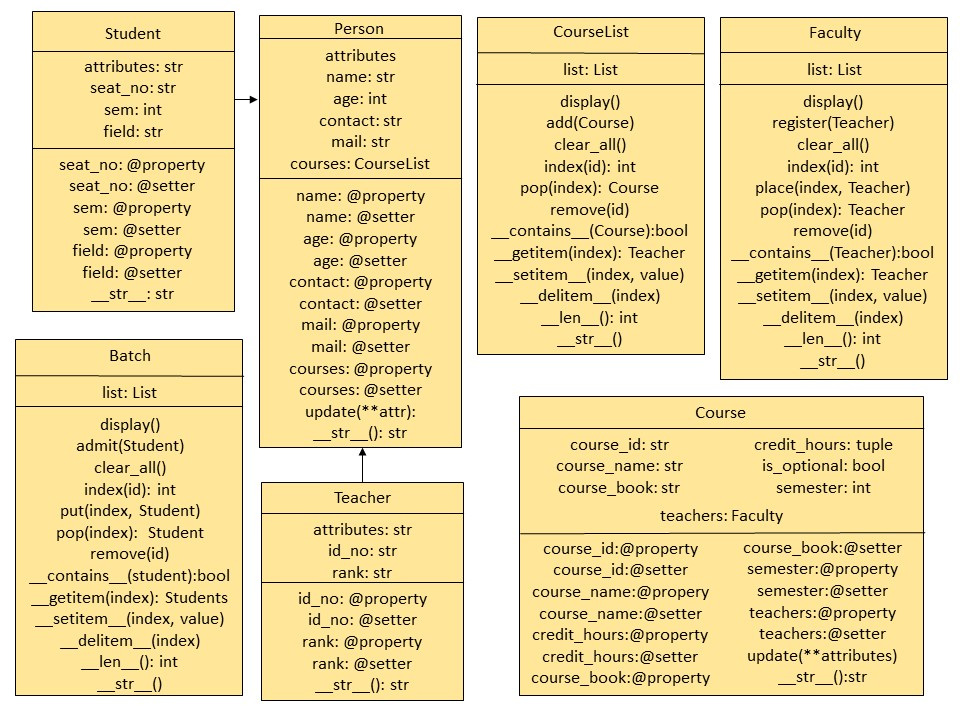
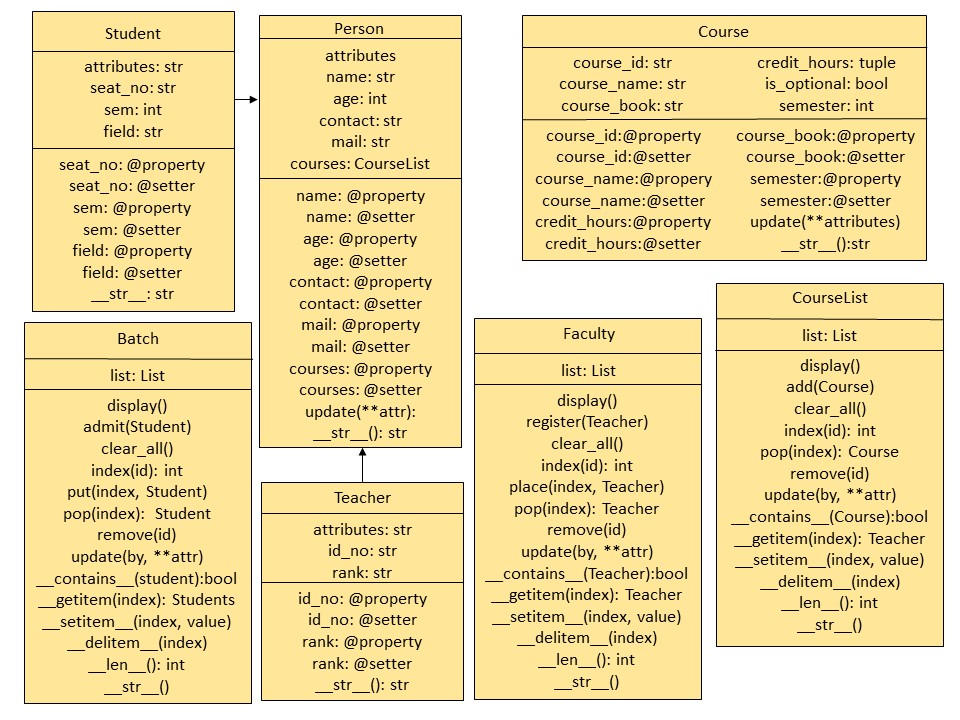
Added update_element() in all List Classes

Changed region(s): [[0.4688, 0.0, 1.0, 0.9778], [0.0, 0.4278, 0.2812, 0.9778]]

diff --git a/Mini-LMS/lms/Course.py b/Mini-LMS/lms/Course.py
@@ -1,15 +1,14 @@
 class Course:
     
-    attributes = "course_id, course_name, course_book, credit_hours, semester, is_optional, teachers"
+    attributes = "course_id, course_name, course_book, credit_hours, semester, is_optional"
     
-    def __init__(self, course_id, course_name, course_book, credit_hours, semester, is_optional, teachers):
+    def __init__(self, course_id, course_name, course_book, credit_hours, semester, is_optional):
         self.course_id = course_id
         self.course_name = course_name
         self.course_book = course_book
         self.credit_hours = credit_hours
         self.semester = semester
         self.is_optional = is_optional
-        self.teachers = teachers
         
     @property
     def course_id(self):
@@ -93,18 +92,6 @@ class Course:
             raise TypeError('Must be an Boolean Value')
         
         self.__is_optional = value
-        
-    @property
-    def teachers(self):
-        return self.__teachers
-    
-    @teachers.setter
-    def teachers(self, value):
-        from .Person import Faculty
-        if not isinstance(value, Faculty):
-            raise TypeError('Teachers must be a Faculty Object Value')
-        
-        self.__teachers = value
     
     def update(self, **attr):
         for key, value in attr.items():
@@ -117,13 +104,7 @@ Valid Arguments: {self.__class__.attributes}""")
     def __str__(self):
         return f"""Course Name: {self.course_name}  Course ID: {self.course_id}
 Credit Hours: {self.credit_hours}     Course Book: {self.course_book}
-Semester: {self.semester}   Optional: {self.is_optional}
-Teachers: {', '.join(x.name for x in self.teachers)}
-"""
-
-        
-    
-        
+Semester: {self.semester}   Optional: {self.is_optional}"""    
     
 class CourseList:
     def __init__(self, array = None):
@@ -199,6 +180,37 @@ class CourseList:
         index = self.index(id)
         
         del self[index]
+        
+    def update_element(self, by, **attr):
+        if not isinstance(by, list):
+            raise TypeError('by must be a List')
+        if len(by) != 2:
+            raise ValueError("by must be in this format, [name or course_id, 'course name or course id']")
+        
+        ind = None
+        
+        if by[0] == 'name':
+            
+            if not isinstance(by[1], str):
+                raise TypeError('Course Name must be a String Value')
+            by[1].strip()
+            if len(by[1]) < 3 or len(by[1]) > 50:
+                raise ValueError('Course Name is Too Short/Long')
+            
+            for i in range(len(self._list)):
+                if self._list[i].course_name == by[1]:
+                    ind = i
+            
+            if ind == None:
+                raise ValueError("Name Not Matched | Course Not Found")
+        
+        elif by[0] == 'course_id':
+            ind = self.index(by[1])
+        
+        else:
+            raise AttributeError('Can Only Update by Course Name(course_name) or Course ID(course_id)')
+            
+        self[ind].update(**attr)
         
     def __contains__(self, crs):
         if not isinstance(crs, Course):

diff --git a/Mini-LMS/lms/Person.py b/Mini-LMS/lms/Person.py
@@ -320,6 +320,39 @@ class Batch:
         index = self.index(id)
         
         del self[index]
+        
+    def update_element(self, by, **attr):
+        if not isinstance(by, list):
+            raise TypeError('by must be a List')
+        if len(by) != 2:
+            raise ValueError("by must be in this format, [name or seat_no, 'students name or seat no']")
+        
+        ind = None
+        
+        if by[0] == 'name':
+            
+            if not isinstance(by[1], str):
+                raise TypeError('Name must be a String')
+            by[1] = by[1].strip()
+            if len(by[1]) < 6 or len(by[1]) > 30:
+                raise ValueError('Name must contain 6 - 30 Characters')
+            if not all((x.isalpha() or x.isspace()) for x in by[1]):
+                raise ValueError('Name must only contain Alphabet and spaces')
+            
+            for i in range(len(self._list)):
+                if self._list[i].name == by[1]:
+                    ind = i
+            
+            if ind == None:
+                raise ValueError("Name Not Matched | Student Not Found")
+        
+        elif by[0] == 'seat_no':
+            ind = self.index(by[1])
+        
+        else:
+            raise AttributeError('Can Only Update by Name(name) or Seat No.(seat_no)')
+            
+        self[ind].update(**attr)
     
     def __contains__(self, std):
         if not isinstance(std, Student):
@@ -496,6 +529,39 @@ class Faculty:
         index = self.index(id)
         
         del self[index]
+        
+    def update_element(self, by, **attr):
+        if not isinstance(by, list):
+            raise TypeError('by must be a List')
+        if len(by) != 2:
+            raise ValueError("by must be in this format, [name or id_no, 'teachers name or id no']")
+        
+        ind = None
+        
+        if by[0] == 'name':
+            
+            if not isinstance(by[1], str):
+                raise TypeError('Name must be a String')
+            by[1] = by[1].strip()
+            if len(by[1]) < 6 or len(by[1]) > 30:
+                raise ValueError('Name must contain 6 - 30 Characters')
+            if not all((x.isalpha() or x.isspace()) for x in by[1]):
+                raise ValueError('Name must only contain Alphabet and spaces')
+            
+            for i in range(len(self._list)):
+                if self._list[i].name == by[1]:
+                    ind = i
+            
+            if ind == None:
+                raise ValueError("Name Not Matched | Teacher Not Found")
+        
+        elif by[0] == 'id_no':
+            ind = self.index(by[1])
+        
+        else:
+            raise AttributeError('Can Only Update by Name(name) or ID No.(id_no)')
+            
+        self[ind].update(**attr)
         
     def __contains__(self, tch):
         if not isinstance(tch, Teacher):

diff --git a/Mini-LMS/main.py b/Mini-LMS/main.py
@@ -4,26 +4,21 @@ from lms.Course import Course, CourseList
 def run():
     try:
         
-        y1_s1 = CourseList()
+        crs1 = Course("CS356", "OOP", "DSA with Python", (3, 2), 2, False)
+        crs2 = Course("CS210", "Database Systems", "Database System Concepts by Silberschatz", (3, 1), 3, False)
+        crs3 = Course("CS105", "Intro to Programming", "Python Crash Course", (3, 1), 1, False)
+        crs4 = Course("CS420", "Machine Learning", "Hands-On Machine Learning with Scikit-Learn", (3, 0), 7, True)
+        crs5 = Course("CS499", "Final Year Project", "N/A", (0, 6), 8, False)
         
-        tch1 = Teacher('Badr Sami', 65, '03000000000', 'badrsami@yahoo.com', 'AP001', 'Associate Professor', y1_s1)
-        tch2 = Teacher('Nadeem Mehmoud', 59, '03000000001', 'NadeemM@hotmail.com', 'AP002', 'Associate Professor', y1_s1)
+        crslist = CourseList()
         
-        teacher_list=Faculty([tch1, tch2])
+        crslist.add(crs1)
+        crslist.add(crs2)
+        crslist.add(crs3)
         
-        crs1 = Course('CS356', 'OOP', 'DSA with Python', (3, 2), 2, False, teacher_list)
-        crs2 = Course("CS210", "Database Systems", "Database System Concepts by Silberschatz", (3, 1), 3, False, teacher_list)
-        crs3 = Course("CS105", "Intro to Programming", "Python Crash Course", (3, 1), 1, False, teacher_list)
-        crs4 = Course("CS420", "Machine Learning", "Hands-On Machine Learning with Scikit-Learn", (3, 0), 7, True, teacher_list)
-        crs5 = Course("CS499", "Final Year Project", "N/A", (0, 6), 8, False, teacher_list)
+        crslist.update_element(['name', 'OOP'], credit_hours=(4, 0))
         
-        y1_s2 = CourseList([crs1, crs2])
-        
-        tch3 = Teacher('Humera Tariq', 46, '03110000000', 'humeraaa@gmail.com', 'TH009', 'Lecturer', y1_s2)
-        tch4 = Teacher('Bari Ahmed Khan', 38, '03990000000', 'bak@mail.com', 'TA030', 'Teaching Associate', y1_s2)
-        
-        print(tch3)
-        
+        crslist.display()
         
     except TypeError as e:
         print('Type Error:', e)
